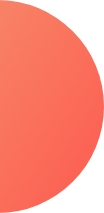
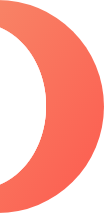
new somthing

Changed region(s): [[0.0, 0.1127, 0.4615, 0.8732]]

diff --git a/style.css b/style.css
@@ -25,7 +25,7 @@ h2{
     background-position: right;
 }
 .experiences-area{
-    background-image: url(developer-portfolio-master/images/exp-bg.png);
+    background-image: url(developer-portfolio-master/images/dream-bg.png);
     background-repeat: no-repeat;
     background-position: left;
 }
